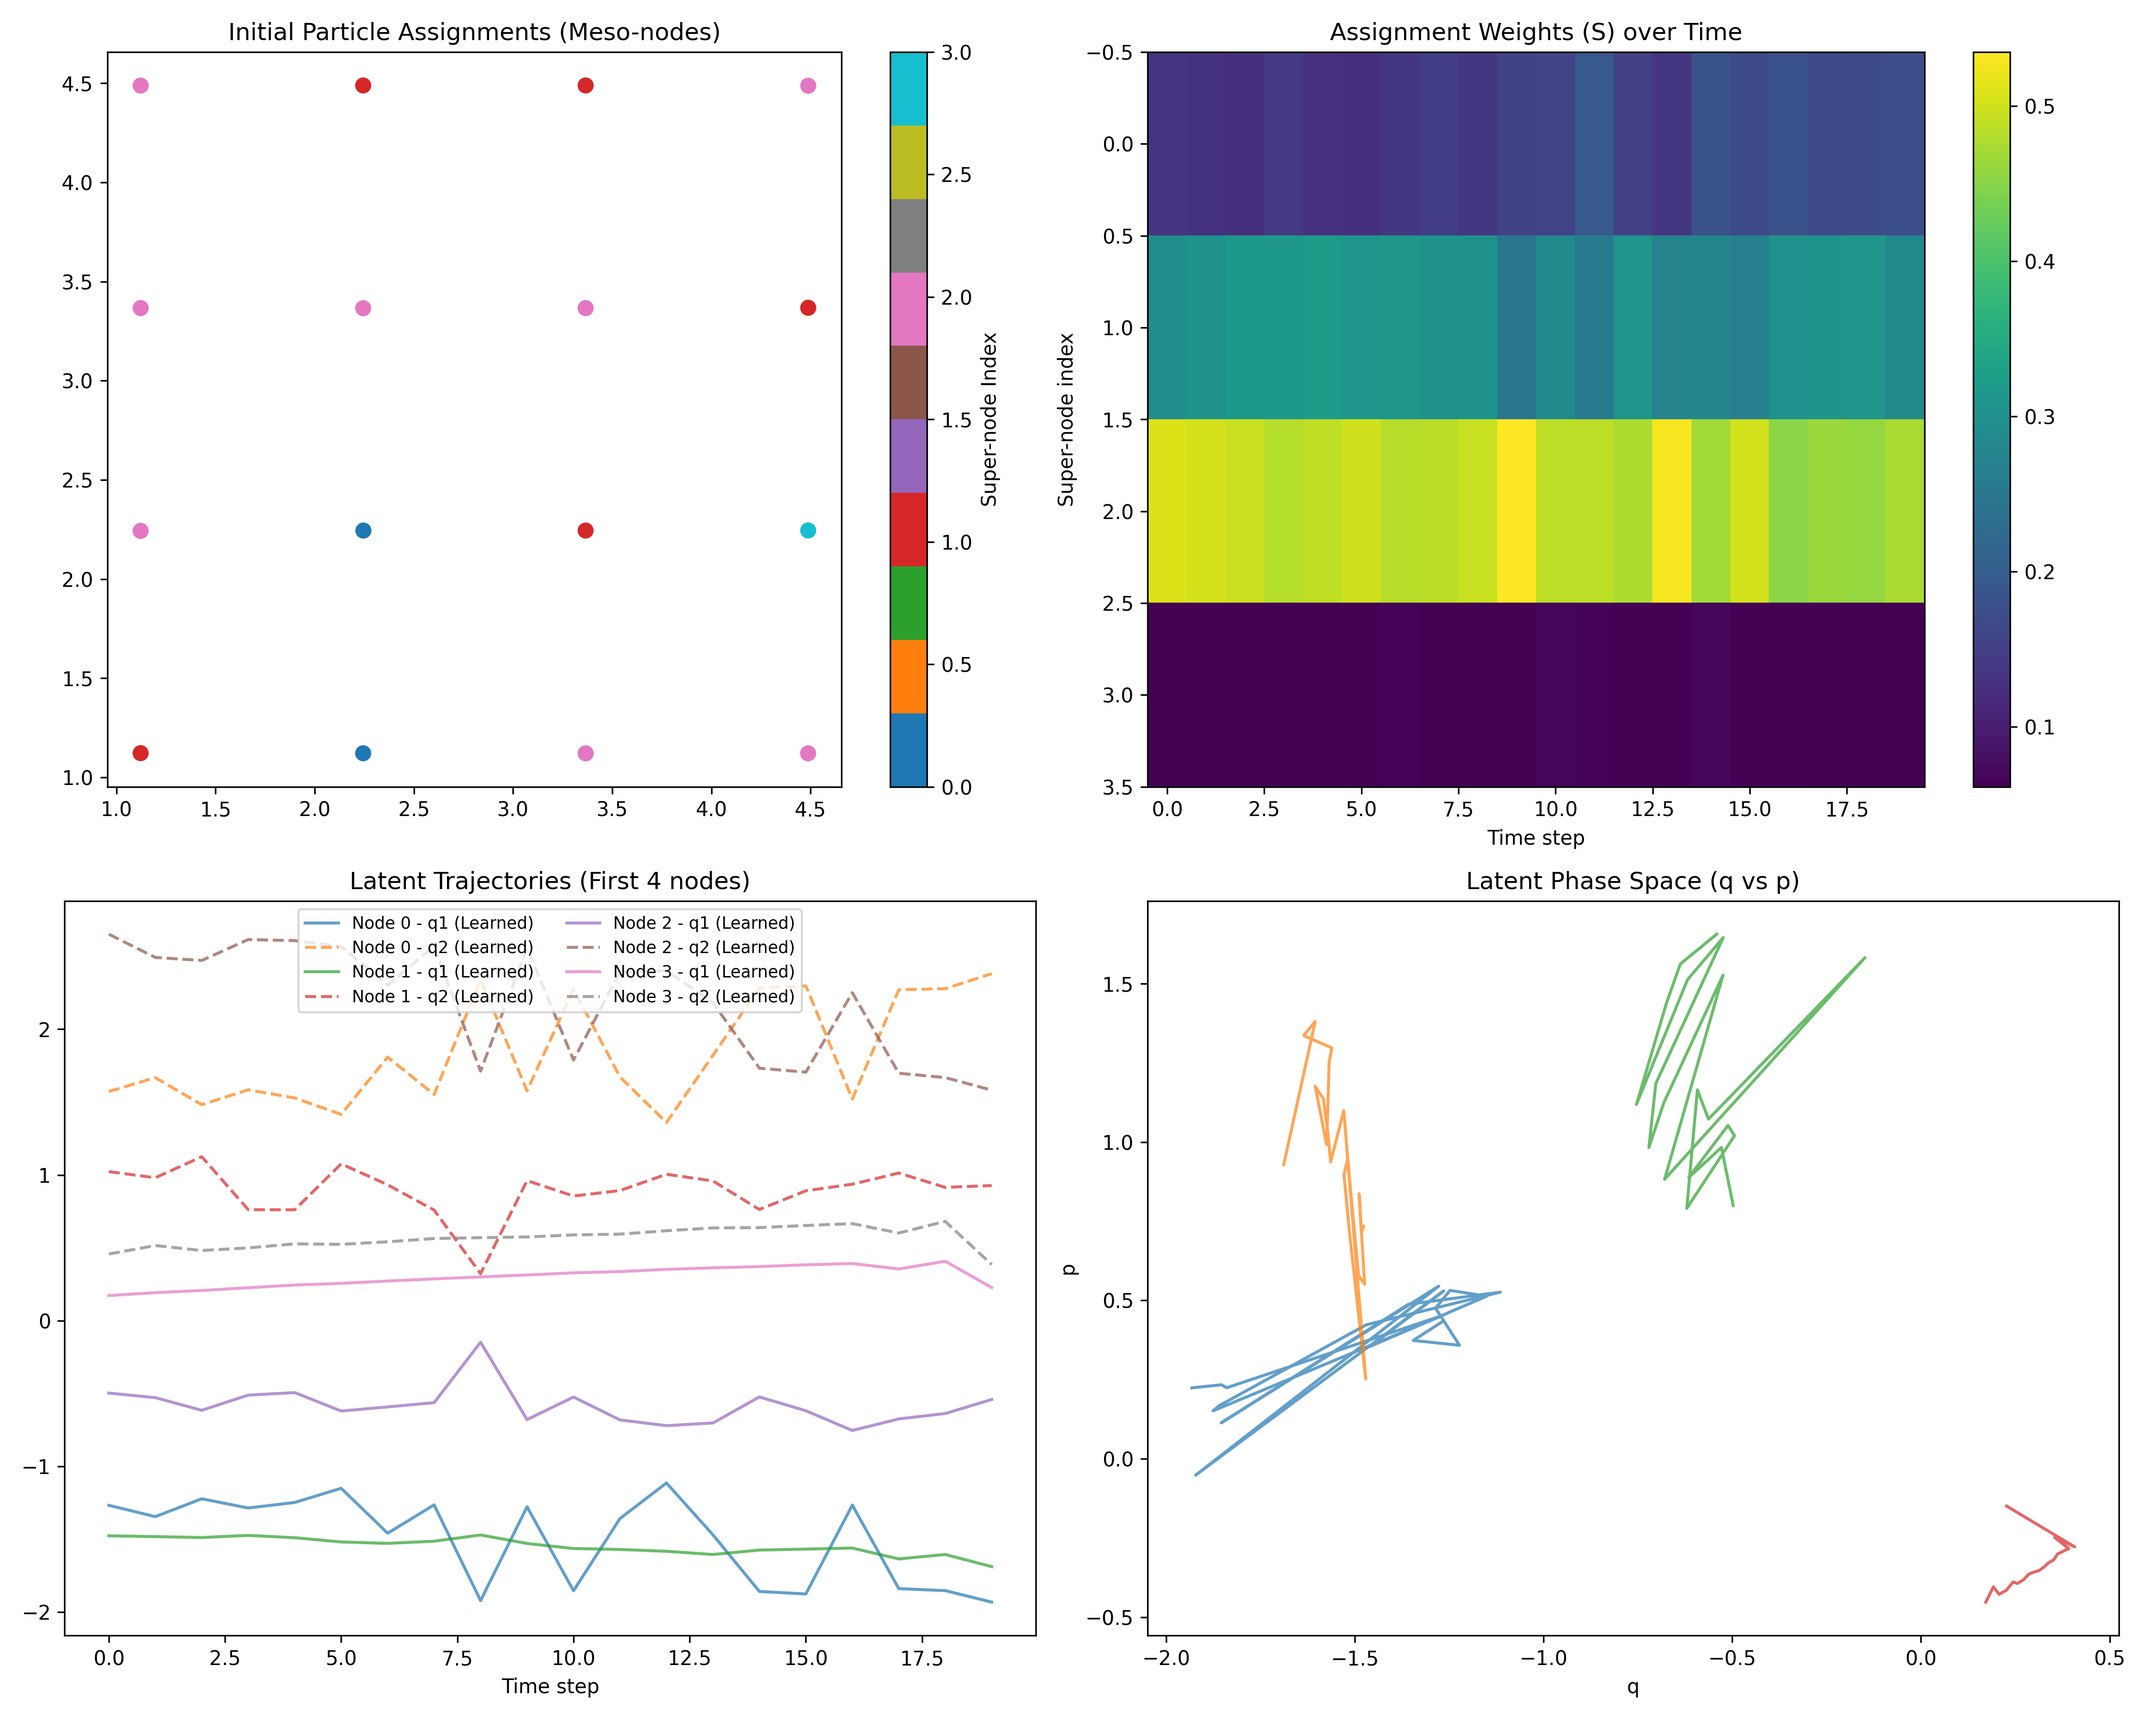
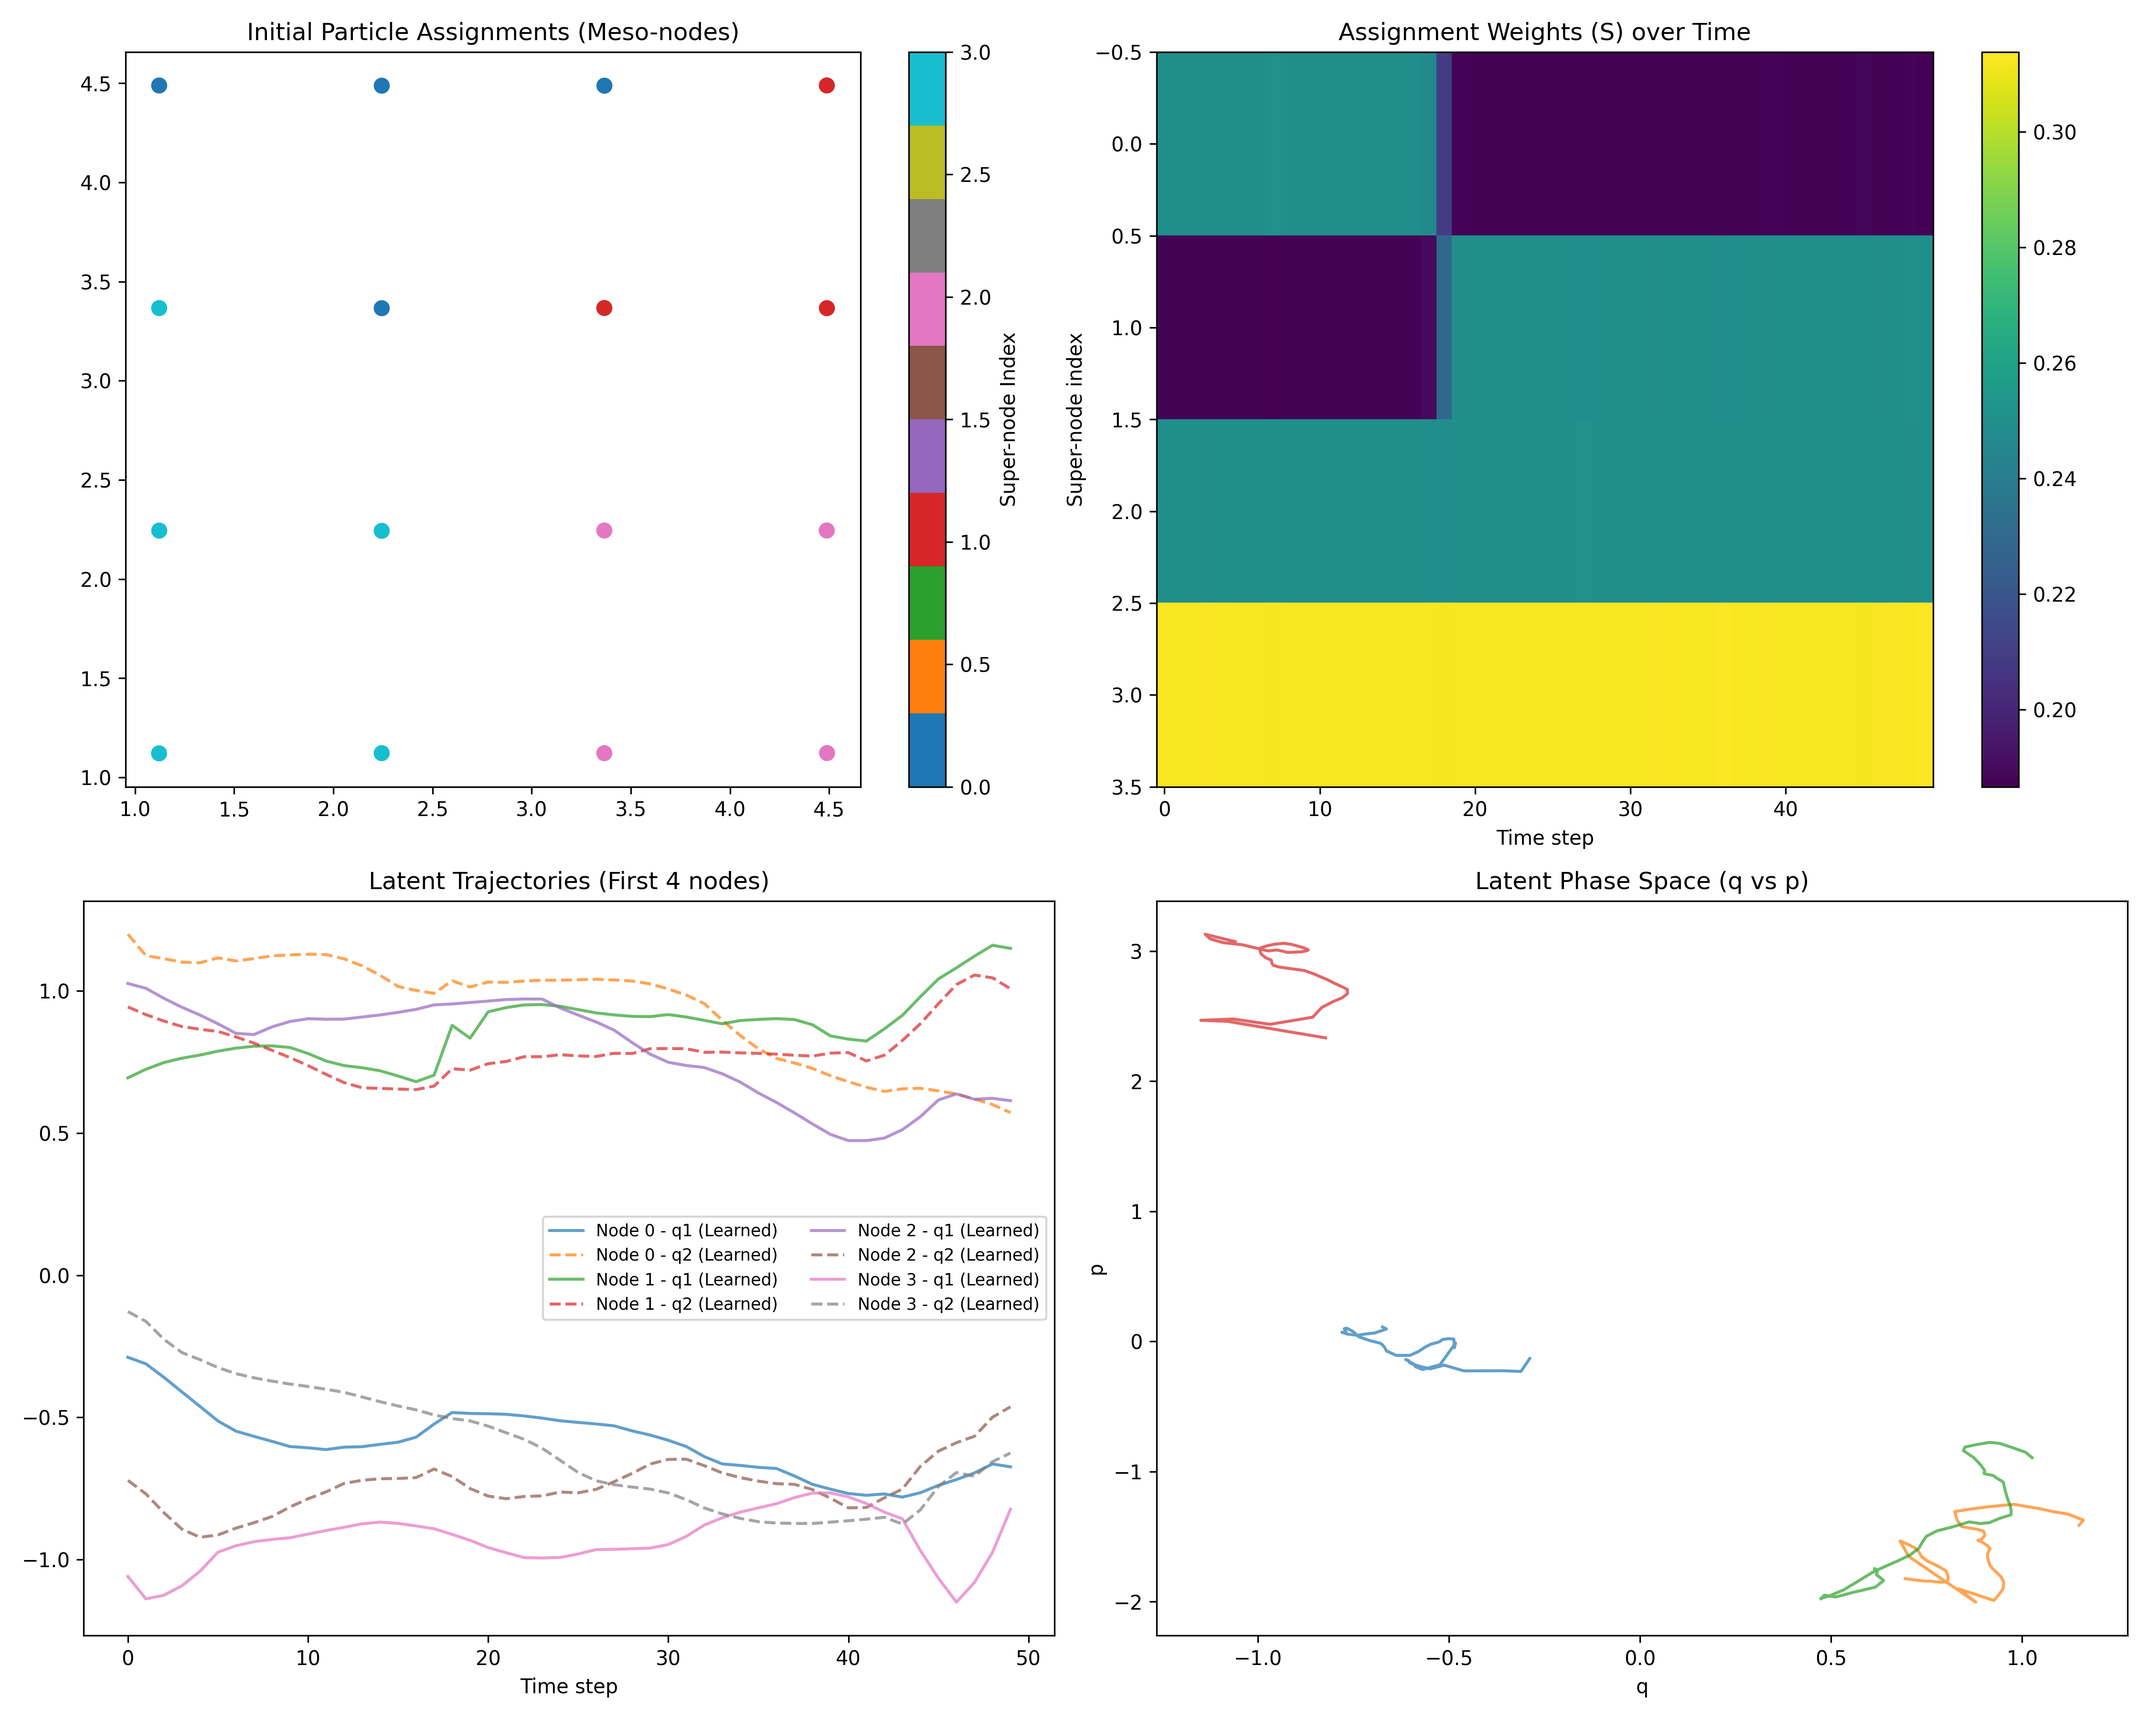
updated

diff --git a/unified_train.py b/unified_train.py
@@ -170,31 +170,31 @@ def main():
     # 6. Visualization - OPTIMIZED
     print("Visualizing results...")
     # Only compute assignments for a subset to reduce computation
-    sample_size = min(50, len(dataset))
-    sample_indices = np.linspace(0, len(dataset)-1, sample_size, dtype=int)
-    sample_dataset = [dataset[i] for i in sample_indices]
-    
+    vis_sample_size = min(50, len(dataset))
+    vis_sample_indices = np.linspace(0, len(dataset)-1, vis_sample_size, dtype=int)
+    vis_sample_dataset = [dataset[i] for i in vis_sample_indices]
+
     # Get assignments for sampled data
     model.eval()
     s_list = []
     with torch.no_grad():
-        for data in sample_dataset:
+        for data in vis_sample_dataset:
             batch = Batch.from_data_list([data]).to(device)
             _, s, _, _ = model.encode(batch.x, batch.edge_index, batch.batch)
             s_list.append(s.cpu())
 
     s_full = torch.cat(s_list, dim=0) # [sample_size*N, K]
     # Reshape to [sample_size, N, K] and take mean over particles N for the heatmap
-    s_heatmap = s_full.view(sample_size, args.particles, args.super_nodes).mean(dim=1)
+    s_heatmap = s_full.view(vis_sample_size, args.particles, args.super_nodes).mean(dim=1)
 
     # Get final assignments for scatter plot
     batch_0 = Batch.from_data_list([dataset[0]]).to(device)
     _, s_0, _, _ = model.encode(batch_0.x, batch_0.edge_index, batch_0.batch)
     assignments = torch.argmax(s_0, dim=1).cpu().numpy()
 
-    # Use sampled z_states for visualization
-    sample_z_states = z_states[sample_indices] if len(z_states) > sample_size else z_states
-    z_states_plot = sample_z_states.reshape(-1, args.super_nodes, 4) if len(sample_z_states) > 0 else np.zeros((sample_size, args.super_nodes, 4))
+    # Extract z_states for visualization using the same indices
+    vis_z_states, _, _ = extract_latent_data(model, vis_sample_dataset, sim.dt, include_hamiltonian=args.hamiltonian)
+    z_states_plot = vis_z_states.reshape(-1, args.super_nodes, 4) if len(vis_z_states) > 0 else np.zeros((vis_sample_size, args.super_nodes, 4))
 
     # NEW: Generate symbolic predictions if symbolic equations exist
     symbolic_predictions = None
@@ -208,8 +208,20 @@ def main():
             with torch.no_grad():
                 symbolic_dz_dt = trainer.symbolic_proxy(z_tensor)
 
-            # Reshape to match z_states_plot dimensions [T, K, D]
-            symbolic_dz_dt = symbolic_dz_dt.cpu().numpy().reshape(-1, args.super_nodes, 4)
+            # Reshape to match z_states_plot dimensions [T, K, D], ensuring compatibility
+            expected_shape = z_states_plot.shape
+            num_elements_needed = expected_shape[0] * expected_shape[1] * expected_shape[2]
+            symbolic_dz_dt_flat = symbolic_dz_dt.cpu().numpy().flatten()
+
+            # Trim or pad if needed to match expected size
+            if len(symbolic_dz_dt_flat) > num_elements_needed:
+                symbolic_dz_dt_flat = symbolic_dz_dt_flat[:num_elements_needed]
+            elif len(symbolic_dz_dt_flat) < num_elements_needed:
+                # Pad with zeros if shorter
+                padding = np.zeros(num_elements_needed - len(symbolic_dz_dt_flat))
+                symbolic_dz_dt_flat = np.concatenate([symbolic_dz_dt_flat, padding])
+
+            symbolic_dz_dt = symbolic_dz_dt_flat.reshape(expected_shape)
 
             # Integrate to get trajectories (simple Euler integration)
             dt = 0.01  # Use a small time step for integration
@@ -218,15 +230,26 @@ def main():
 
             for t in range(1, len(symbolic_traj)):
                 # Simple Euler integration: z_new = z_old + dt * dz_dt
-                symbolic_traj[t] = symbolic_traj[t-1] + dt * symbolic_dz_dt[t-1]
+                # Ensure we don't go out of bounds
+                if t-1 < len(symbolic_dz_dt):
+                    symbolic_traj[t] = symbolic_traj[t-1] + dt * symbolic_dz_dt[t-1]
+                else:
+                    # If we run out of derivatives, hold the last value or use zeros
+                    symbolic_traj[t] = symbolic_traj[t-1]
 
             symbolic_predictions = symbolic_traj
             print(f"Generated symbolic predictions: shape {symbolic_predictions.shape}")
+        except RuntimeError as e:
+            if "size of tensor" in str(e) and "match the size" in str(e):
+                print(f"Tensor size mismatch in symbolic proxy: {e}. Skipping symbolic predictions.")
+                symbolic_predictions = None
+            else:
+                raise  # Re-raise if it's a different RuntimeError
         except Exception as e:
             print(f"Failed to generate symbolic predictions: {e}")
             symbolic_predictions = None
 
-    plot_discovery_results(model, sample_dataset, pos[sample_indices], s_heatmap, z_states_plot, assignments, symbolic_predictions=symbolic_predictions)
+    plot_discovery_results(model, vis_sample_dataset, pos[vis_sample_indices], s_heatmap, z_states_plot, assignments, symbolic_predictions=symbolic_predictions)
     plot_training_history(trainer.loss_tracker)
 
 if __name__ == "__main__":
